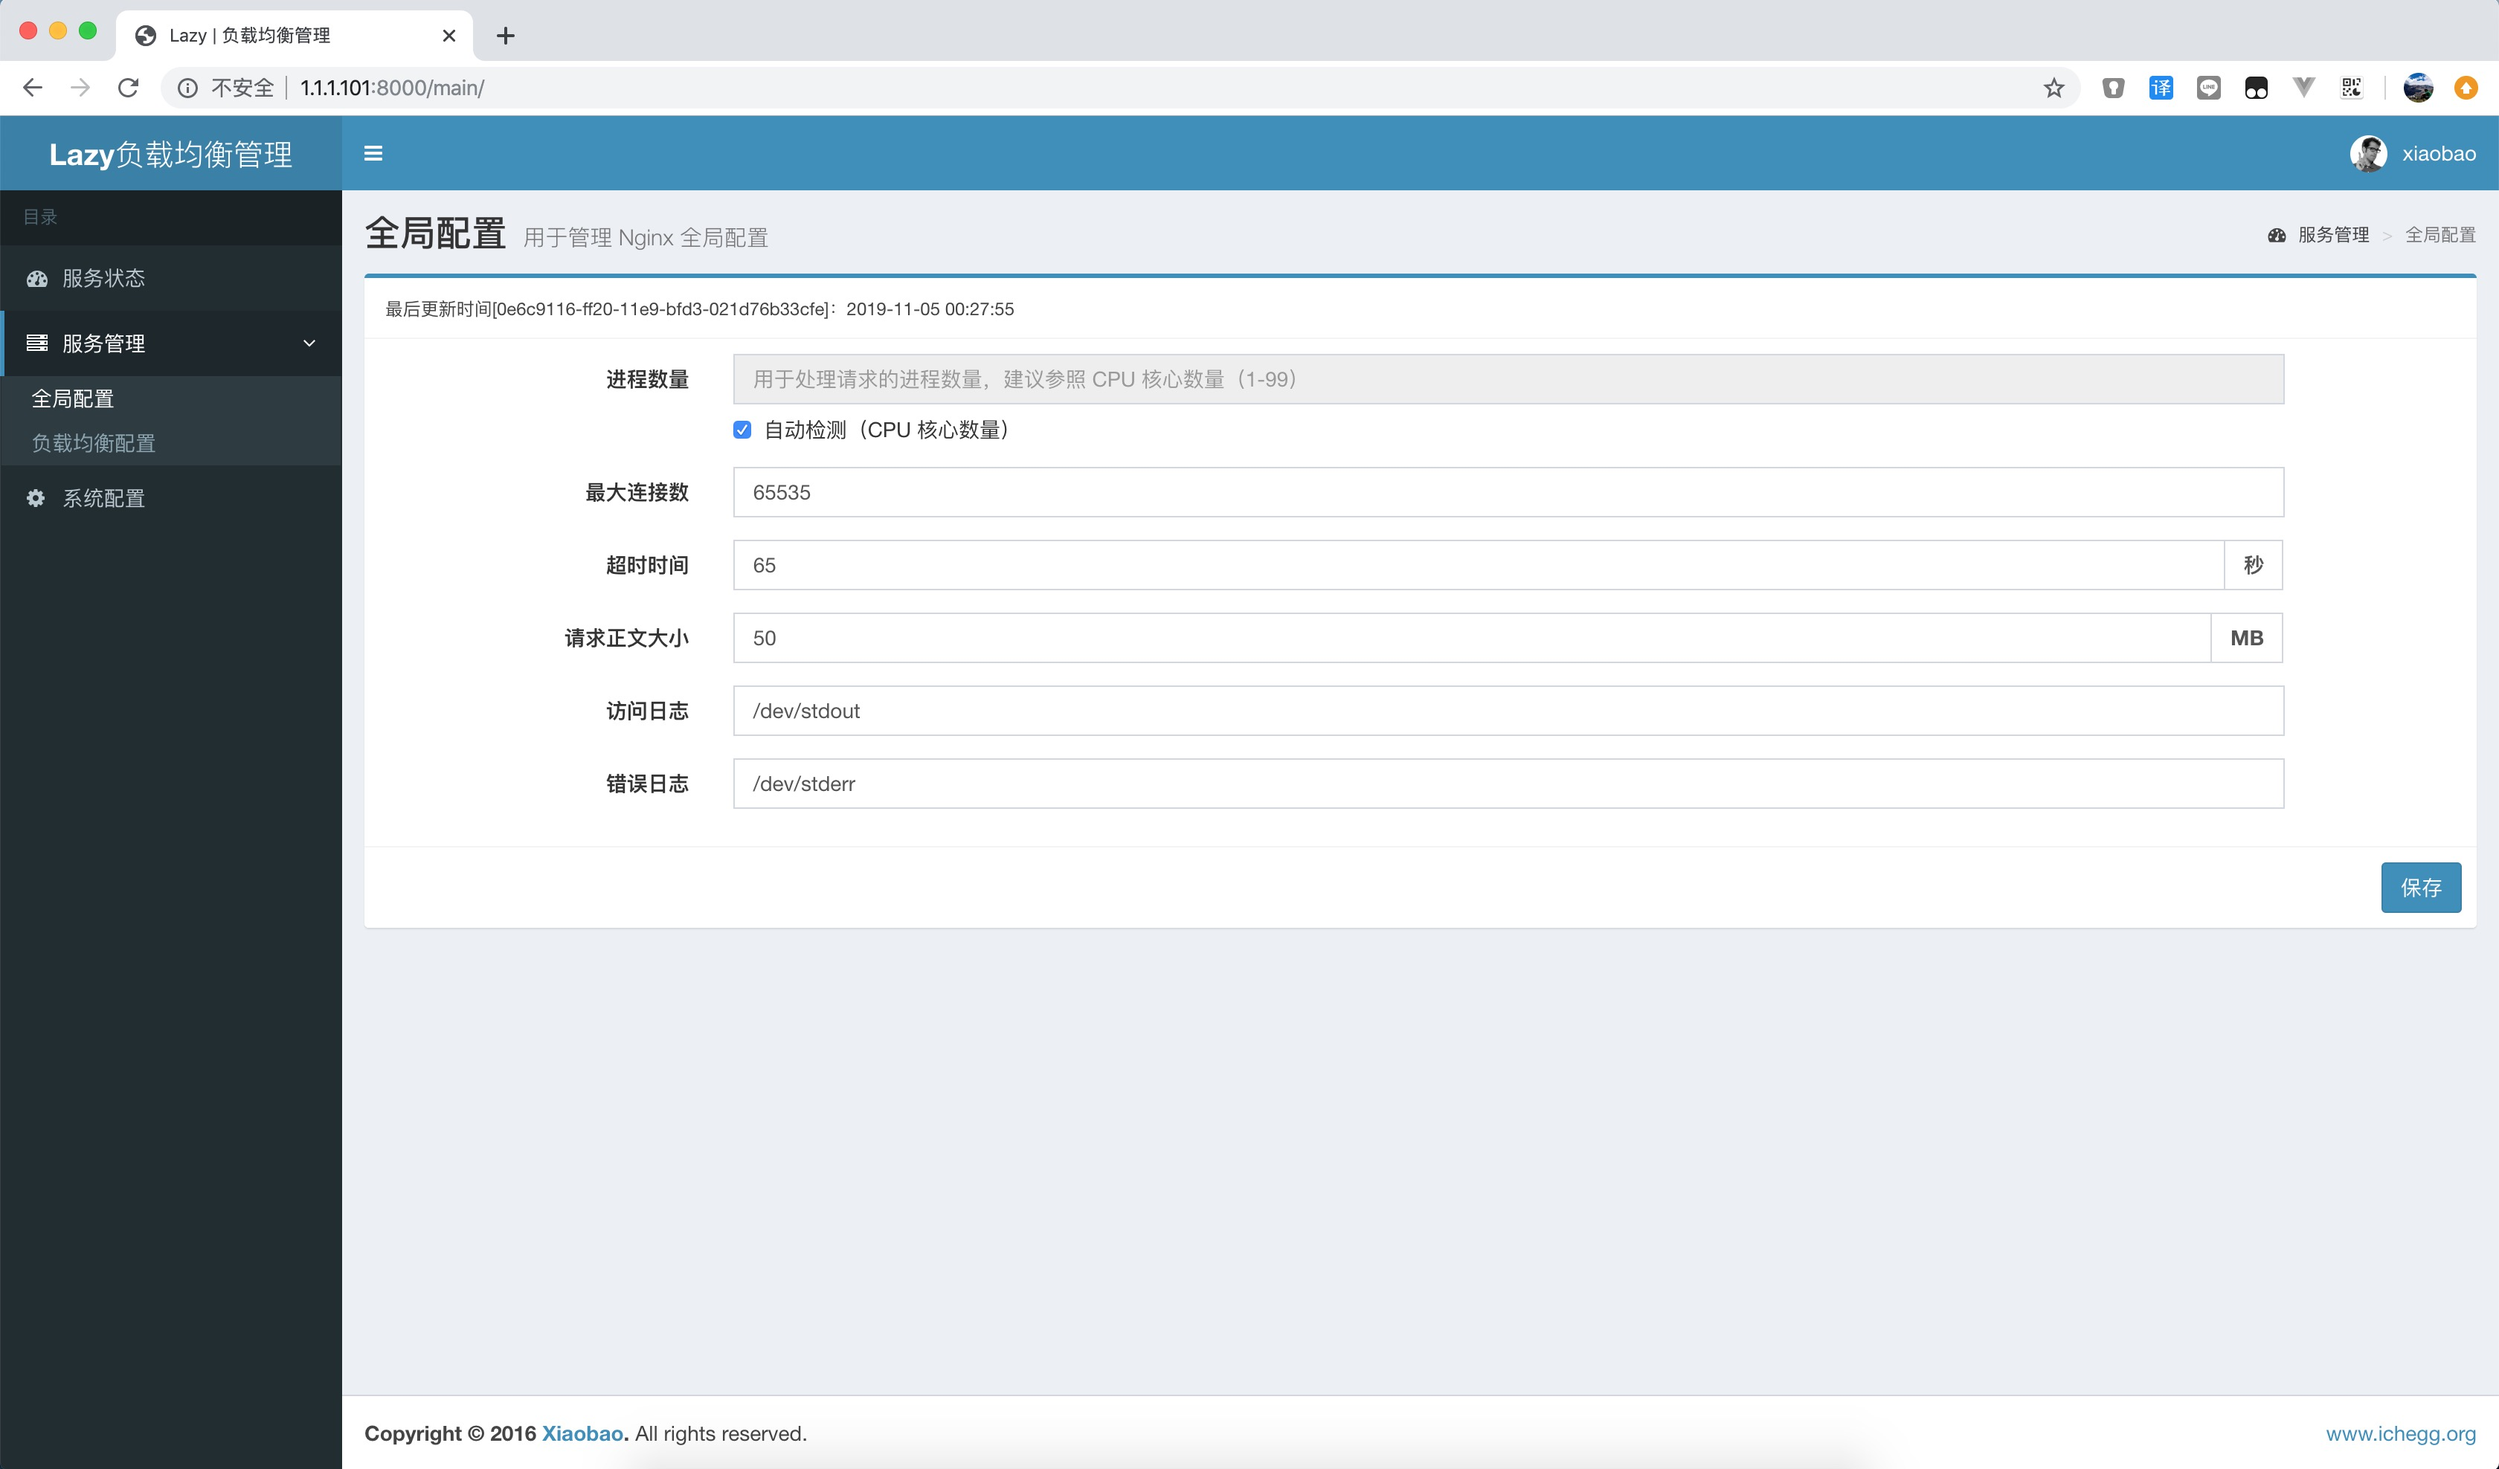
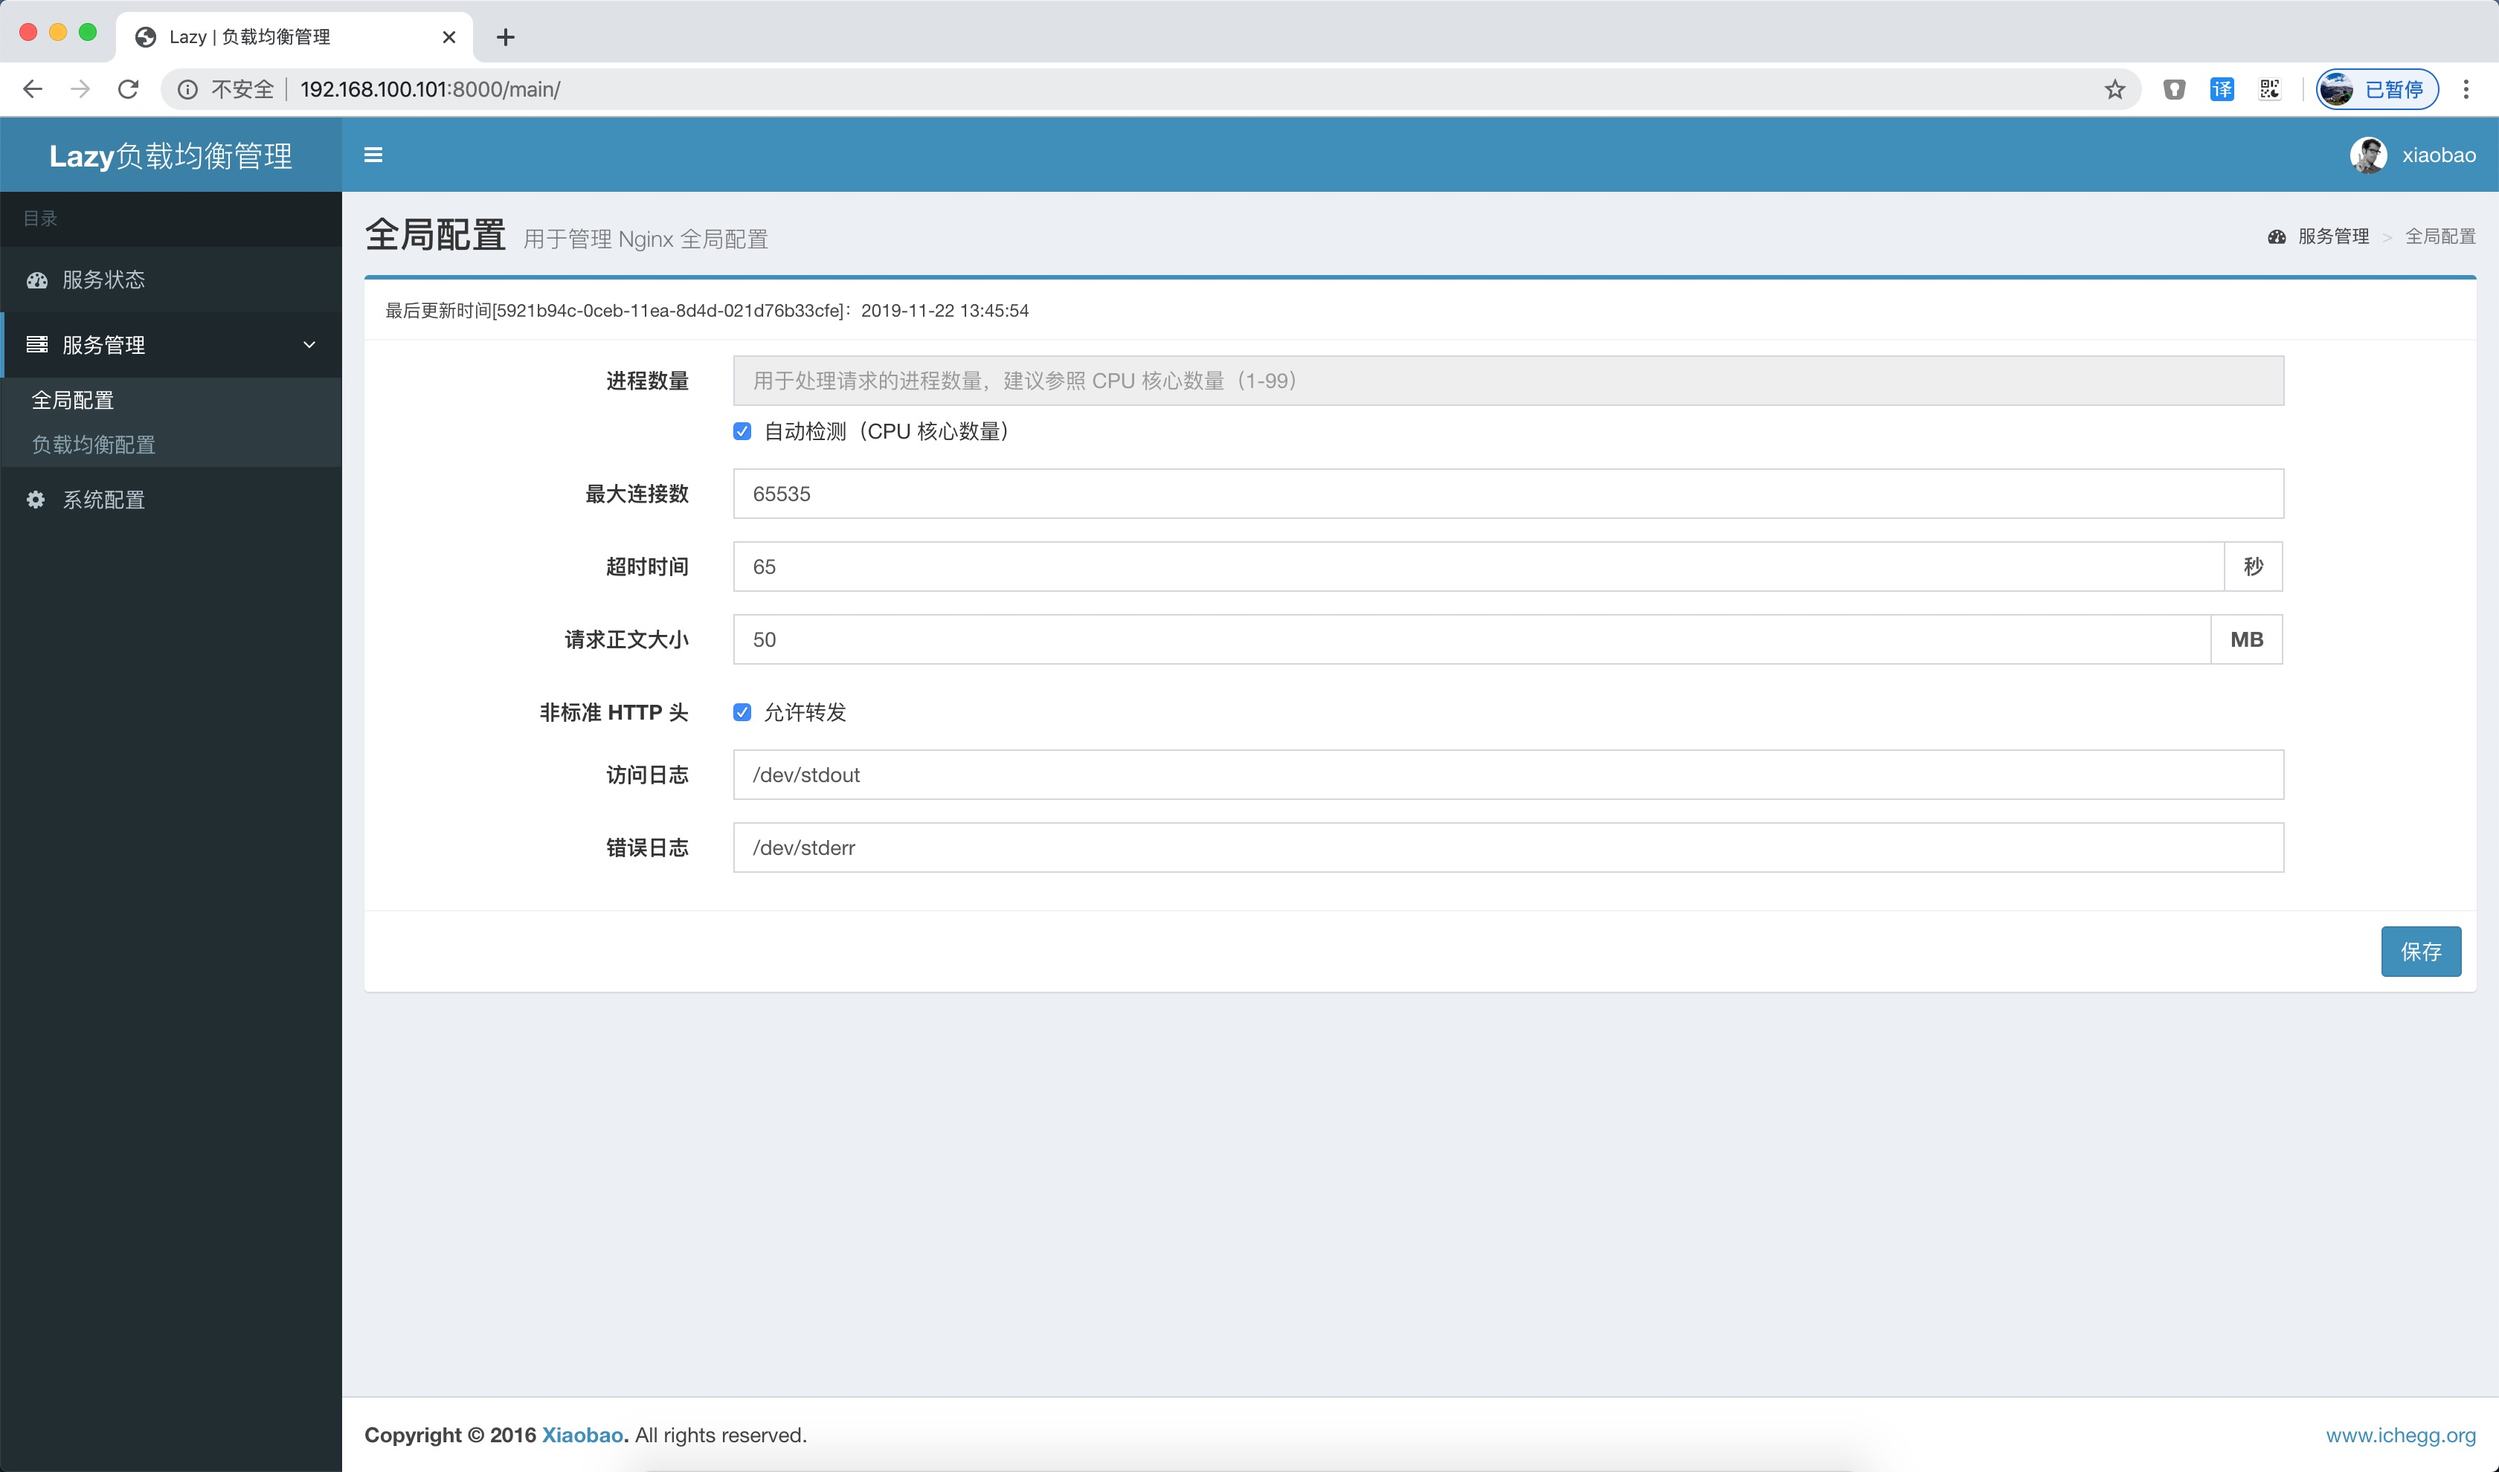
fix bug

diff --git a/proxy/migrations/0001_initial.py b/proxy/migrations/0001_initial.py
@@ -1,9 +1,8 @@
 # -*- coding: utf-8 -*-
-# Generated by Django 1.9.7 on 2016-07-12 22:07
+# Generated by Django 1.11.25 on 2019-11-22 13:39
 from __future__ import unicode_literals
 
 from django.db import migrations, models
-import django.db.models.deletion
 
 
 class Migration(migrations.Migration):
@@ -19,31 +18,49 @@ class Migration(migrations.Migration):
             fields=[
                 ('id', models.AutoField(auto_created=True, primary_key=True, serialize=False, verbose_name='ID')),
                 ('config_id', models.CharField(max_length=64, null=True)),
-                ('protocols', models.BooleanField()),
                 ('proxy_name', models.CharField(max_length=128, null=True)),
-                ('status', models.BooleanField()),
+                ('protocol', models.BooleanField(default=False)),
                 ('listen', models.IntegerField()),
-                ('service_name', models.CharField(max_length=128, null=True)),
+                ('server_name', models.CharField(max_length=128, null=True)),
                 ('access_log', models.CharField(max_length=128, null=True)),
                 ('error_log', models.CharField(max_length=128, null=True)),
-                ('ssl_cert', models.CharField(max_length=32)),
-                ('ssl_key', models.CharField(max_length=32)),
+                ('to_domain_toggle', models.BooleanField(default=False)),
+                ('to_domain', models.CharField(max_length=128, null=True)),
+                ('balancer_type', models.CharField(max_length=64, null=True)),
+                ('http_check', models.BooleanField(default=False)),
+                ('gzip', models.BooleanField(default=False)),
+                ('description', models.TextField(null=True)),
+                ('ssl', models.BooleanField(default=False)),
+                ('ssl_http2', models.BooleanField(default=False)),
+                ('ssl_redirect_https', models.BooleanField(default=False)),
+                ('ssl_cert', models.TextField(null=True)),
+                ('ssl_cert_path', models.CharField(max_length=128, null=True)),
+                ('ssl_key', models.TextField(null=True)),
+                ('ssl_key_path', models.CharField(max_length=128, null=True)),
+                ('custom_config', models.TextField(null=True)),
+                ('backend_protocol', models.CharField(max_length=64, null=True)),
+                ('backend_domain_toggle', models.BooleanField(default=False)),
+                ('backend_domain', models.CharField(max_length=128, null=True)),
+                ('host', models.CharField(max_length=64, null=True)),
+                ('status', models.BooleanField(default=False)),
                 ('update_time', models.FloatField()),
+                ('max_fails', models.IntegerField(default=5)),
+                ('fail_timeout', models.IntegerField(default=5)),
             ],
         ),
         migrations.CreateModel(
             name='upstream_config',
             fields=[
                 ('id', models.AutoField(auto_created=True, primary_key=True, serialize=False, verbose_name='ID')),
-                ('status', models.BooleanField()),
-                ('balancer_type', models.CharField(max_length=64, null=True)),
-                ('address', models.CharField(max_length=64, null=True)),
+                ('status', models.BooleanField(default=False)),
+                ('address', models.CharField(max_length=64)),
+                ('port', models.IntegerField()),
                 ('weight', models.IntegerField()),
             ],
         ),
         migrations.AddField(
             model_name='proxy_config',
-            name='upstream',
-            field=models.ForeignKey(on_delete=django.db.models.deletion.CASCADE, to='proxy.upstream_config'),
+            name='upstream_list',
+            field=models.ManyToManyField(to='proxy.upstream_config'),
         ),
     ]

diff --git a/settings/migrations/0001_initial.py b/settings/migrations/0001_initial.py
@@ -1,5 +1,5 @@
 # -*- coding: utf-8 -*-
-# Generated by Django 1.9.7 on 2016-07-25 22:58
+# Generated by Django 1.11.25 on 2019-11-22 13:39
 from __future__ import unicode_literals
 
 from django.db import migrations, models
@@ -14,10 +14,23 @@ class Migration(migrations.Migration):
 
     operations = [
         migrations.CreateModel(
+            name='sync_status',
+            fields=[
+                ('id', models.AutoField(auto_created=True, primary_key=True, serialize=False, verbose_name='ID')),
+                ('update_time', models.DateTimeField(null=True)),
+                ('address', models.CharField(max_length=64, null=True)),
+                ('status', models.IntegerField(default=0)),
+            ],
+        ),
+        migrations.CreateModel(
             name='system_settings',
             fields=[
                 ('id', models.AutoField(auto_created=True, primary_key=True, serialize=False, verbose_name='ID')),
-                ('internal_nic', models.CharField(max_length=64, null=True)),
+                ('config_sync_type', models.IntegerField(default=0)),
+                ('config_sync_access_key', models.CharField(max_length=64, null=True)),
+                ('config_sync_master_url', models.CharField(max_length=64, null=True)),
+                ('config_sync_interval', models.IntegerField(default=60)),
+                ('config_sync_scope', models.IntegerField(null=True)),
             ],
         ),
     ]

diff --git a/main/migrations/0001_initial.py b/main/migrations/0001_initial.py
@@ -1,5 +1,5 @@
 # -*- coding: utf-8 -*-
-# Generated by Django 1.9.7 on 2016-07-08 11:33
+# Generated by Django 1.11.25 on 2019-11-22 13:39
 from __future__ import unicode_literals
 
 from django.db import migrations, models
@@ -17,11 +17,12 @@ class Migration(migrations.Migration):
             name='main_config',
             fields=[
                 ('id', models.AutoField(auto_created=True, primary_key=True, serialize=False, verbose_name='ID')),
-                ('user', models.CharField(max_length=32)),
+                ('config_id', models.CharField(max_length=64, null=True)),
                 ('worker_processes', models.IntegerField()),
                 ('worker_connections', models.IntegerField()),
                 ('keepalive_timeout', models.IntegerField()),
-                ('client_max_body_size', models.CharField(max_length=16)),
+                ('client_max_body_size', models.IntegerField()),
+                ('ignore_invalid_headers', models.BooleanField(default=False)),
                 ('access_log', models.CharField(max_length=128, null=True)),
                 ('error_log', models.CharField(max_length=128, null=True)),
                 ('update_time', models.FloatField()),

diff --git a/README.md b/README.md
@@ -11,7 +11,7 @@
 - 码云 - http://git.oschina.net/v55448330/lazy-balancer
 - OSCHINA - http://www.oschina.net/p/nginx-balancer
 
-## 更新（2019-11-14）
+## 更新（2019-11-22）
 * 新增 TCP 负载均衡支持
 * 新增配置同步功能
 * 支持后端服务器为 HTTPS 协议，当后端为 HTTPS 协议时，HTTP 健康检测将使用发送 SSL Hello 包的方式
@@ -21,9 +21,11 @@
 * 去除原 iptables 防火墙管理功能
 * 当协议为 HTTP/HTTPS 时，允许用户自定义 Server 级别 Nginx 配置
 * 当协议为 HTTP/HTTPS 时，可以在列表页预览后端节点状态
+* 当协议为 HTTP/HTTPS 时，允许用户自定义后端节点域名，当未定义时，转发用户输入的域名
 * 当协议为 HTTPS 时，可以在列表页预览证书过期状态，及获取证书信息
 * 允许后端节点为域名格式
 * 增加 HTTP/80，HTTPS/443 的默认规则，禁止直接 IP 访问（返回444），证书路径在 `/etc/nginx/default.*`，可自行更换
+* 新增允许非标准 HTTP Header 转发（如下划线_）
 * 修复其他 Bug
 
 ## 更新
@@ -53,7 +55,7 @@
 ### 容器
 * 编译镜像
 ```
-docker build -t <lazy-balancer>:<v1.1.7beta>
+docker build -t <lazy-balancer>:<v1.1.8beta>
 ```
 > 也可以 DockerHub `https://hub.docker.com/r/v55448330/lazy-balancer`
 
@@ -62,7 +64,7 @@ docker build -t <lazy-balancer>:<v1.1.7beta>
 docker run -d --restart=always --net=host --name=lazy_balancer \
     -v <db_dir>:/app/lazy_balancer/db \
     -v <log_dir>:/var/log/nginx \
-    <lazy-balancer>:<v1.1.7beta> or v55448330/lazy-balancer:latest
+    <lazy-balancer>:<v1.1.8beta> or v55448330/lazy-balancer:latest
 ```
 * 初始化数据库
 ```
